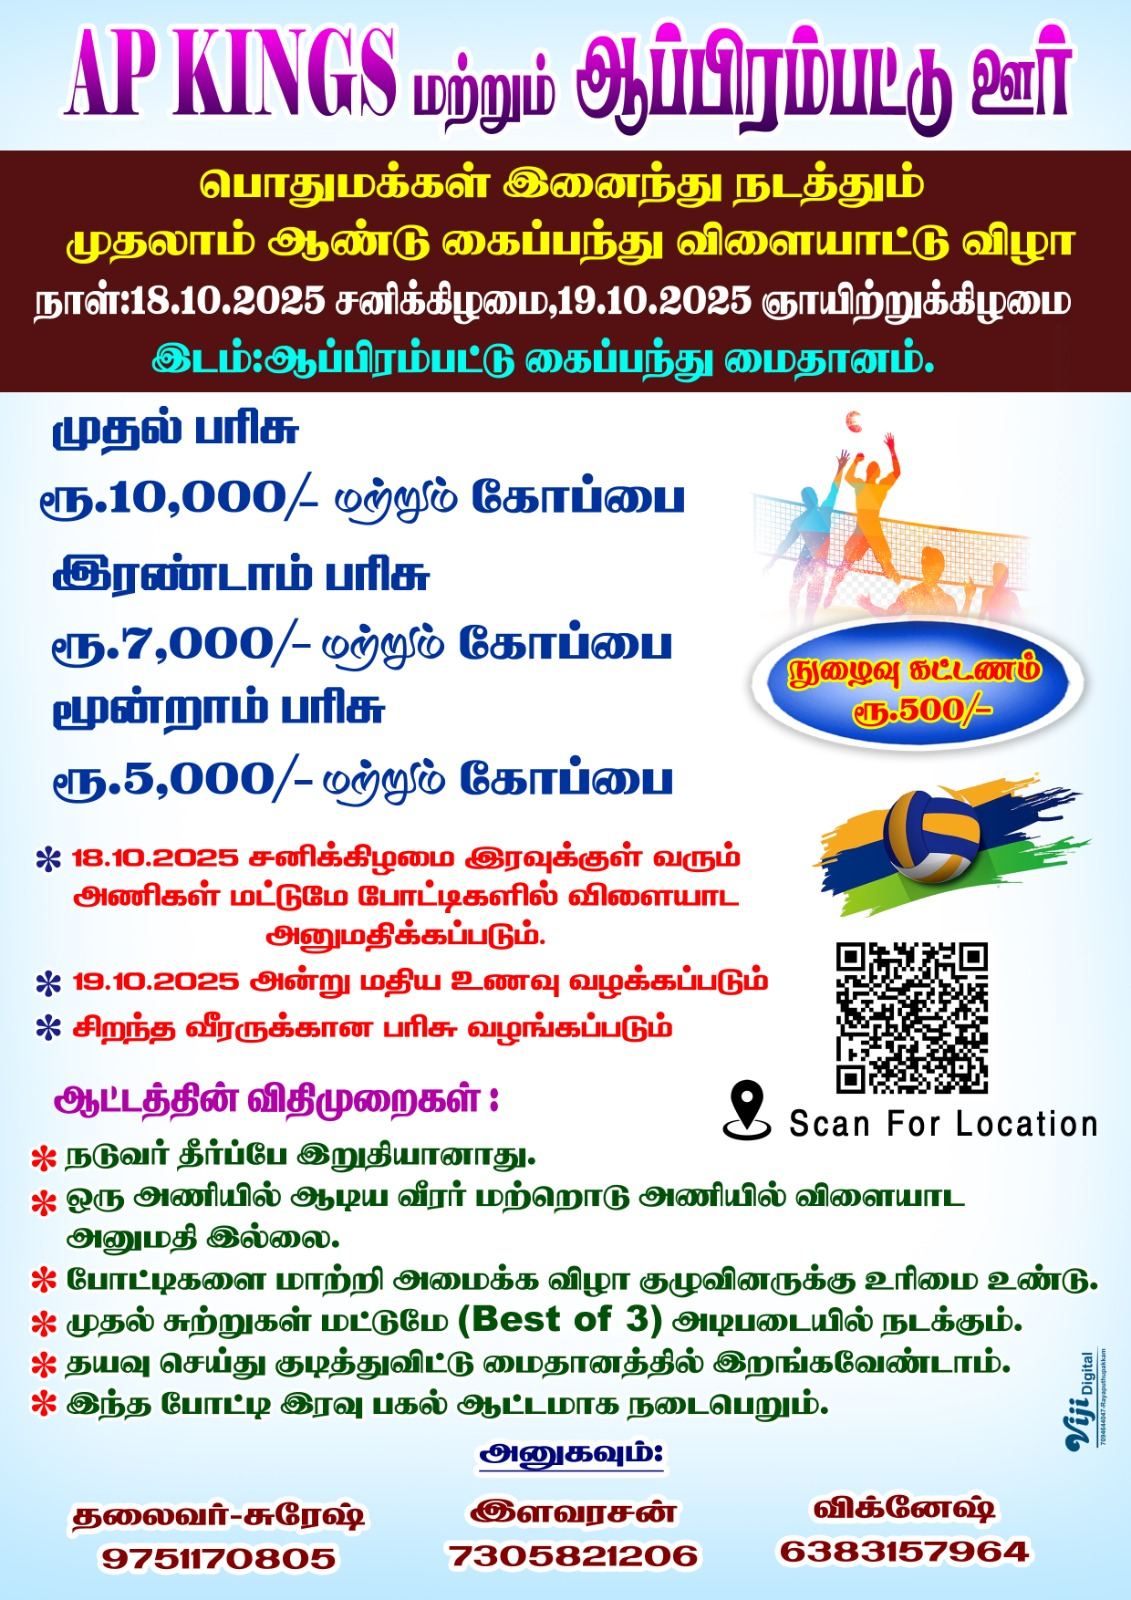
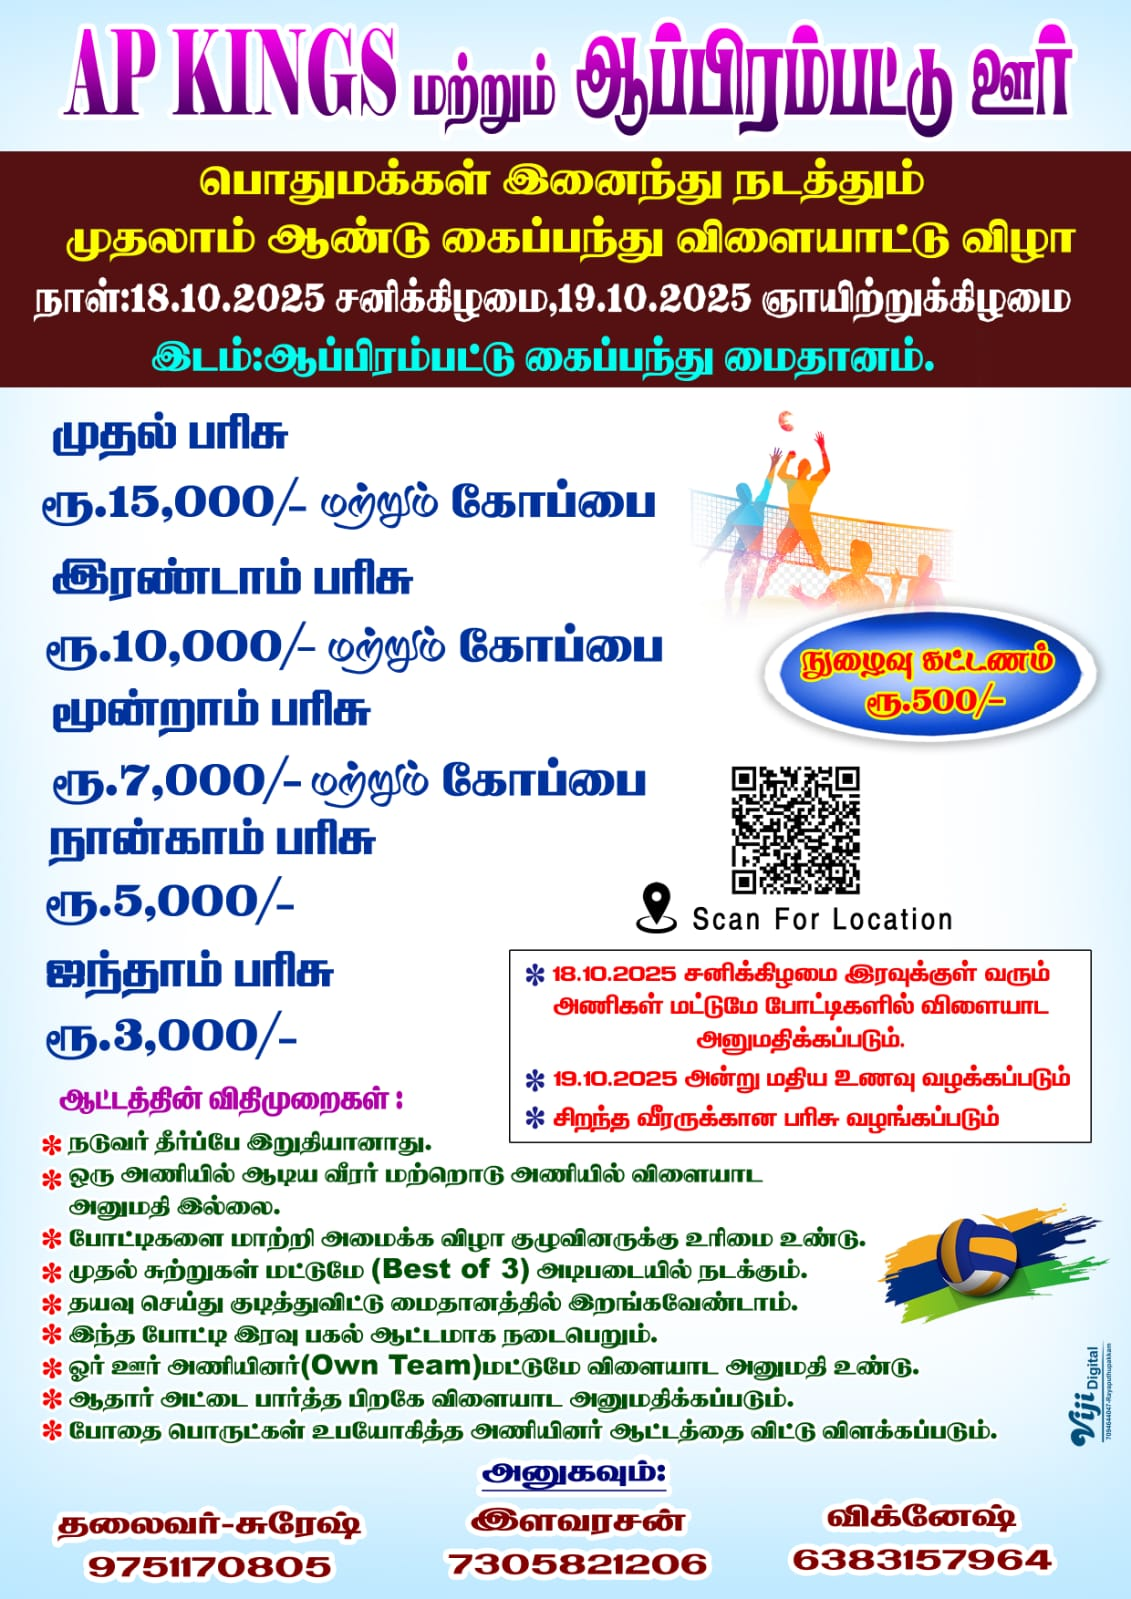
-Sponsors updated. -sliders Updated.

diff --git a/index.html b/index.html
@@ -9,7 +9,6 @@
     :root{ --navy:#0b2447; --accent:#d2a01d; --bg:#f5f8ff; --card:#fff; }
     *{box-sizing:border-box}
     body{margin:0;font-family:Inter,system-ui,-apple-system,"Segoe UI",Roboto,Arial;background:var(--bg);color:var(--navy)}
-
     header{background:linear-gradient(90deg,var(--navy),#083157);color:#fff;padding:14px 18px;display:flex;align-items:center;gap:16px;flex-wrap:wrap}
     .brand{display:flex;align-items:center;gap:12px}
     .logo{width:72px;height:72px;border-radius:8px;overflow:hidden;background:#fff;display:flex;align-items:center;justify-content:center}
@@ -17,35 +16,29 @@
     .title{line-height:1}
     .title h1{margin:0;font-size:18px;font-weight:800}
     .title p{margin:0;font-size:12px;opacity:.95}
-
     .meta{margin-left:auto;display:flex;align-items:center;gap:14px}
     .meta .event{display:flex;flex-direction:column;text-align:right}
     .meta .event small{font-size:12px;opacity:.9}
     .clock{background:rgba(255,255,255,.06);padding:8px 10px;border-radius:8px;font-weight:700;font-size:13px}
-
     .countdown-banner{width:100%;background:linear-gradient(90deg,var(--accent),#b88712);color:#08142b;padding:10px 18px;text-align:center;font-weight:700}
-
     nav{width:100%;background:transparent;display:flex;justify-content:center;padding:8px 10px;gap:12px;flex-wrap:wrap}
     nav a{color:#fff;text-decoration:none;font-weight:700;padding:8px 12px;border-radius:8px}
     nav a:hover{background:rgba(255,255,255,.06)}
 
-    .hero{max-width:1100px;margin:18px auto;padding:0 18px}
-    .slider{position:relative;overflow:hidden;border-radius:10px}
-    .slides{display:flex;width:400%;animation:slide 40s infinite}
-    .slides img{width:100%;height:320px;object-fit:cover}
-    @keyframes slide{0%{transform:translateX(0)}25%{transform:translateX(-100%)}50%{transform:translateX(-200%)}75%{transform:translateX(-300%)}100%{transform:translateX(0)}}
+    /* --- Swiper Slider Styling --- */
+    .swiper{width:100%;max-width:1100px;height:320px;margin:20px auto;border-radius:10px;overflow:hidden;box-shadow:0 8px 30px rgba(10,30,60,.08)}
+    .swiper-slide img{width:100%;height:100%;object-fit:cover}
+    .swiper-pagination-bullet{background:var(--accent)!important}
+    .swiper-button-next, .swiper-button-prev{color:var(--accent)!important}
 
     section{max-width:1100px;margin:18px auto;padding:0 18px}
     .card{background:var(--card);padding:18px;border-radius:10px;box-shadow:0 8px 30px rgba(10,30,60,.06);margin-bottom:18px}
-
     .sponsors{display:flex;flex-wrap:wrap;gap:12px;justify-content:center}
     .sponsor{background:#fff;padding:10px 14px;border-radius:8px;box-shadow:0 4px 14px rgba(0,0,0,.06);font-weight:700}
-
+    .sponsor-category{margin-top:10px;margin-bottom:6px;font-weight:800;text-align:center;color:var(--accent)}
     .location-card{display:flex;flex-direction:column;align-items:center;text-align:center}
     .location-card img{width:200px;height:200px;object-fit:contain;border-radius:10px;margin-top:12px}
-
     footer{text-align:center;padding:18px;color:#123;background:#0b2447;margin-top:12px;color:#fff}
-
     .translate-btn{background:var(--accent);color:#fff;border:none;padding:8px 12px;border-radius:6px;font-weight:600;cursor:pointer}
 
     @media(max-width:760px){
@@ -53,36 +46,30 @@
       .title h1{font-size:16px}
       .meta{width:100%;justify-content:space-between}
       .meta .event{text-align:left}
-      .slides img{height:220px}
+      .swiper{height:220px}
     }
   </style>
+  <link rel="stylesheet" href="https://cdn.jsdelivr.net/npm/swiper@11/swiper-bundle.min.css"/>
 </head>
 <body>
   <header>
     <div class="brand">
-      <div class="logo">
-        <img src="images/logo.png" alt="AP KINGS Logo" />
-      </div>
+      <div class="logo"><img src="images/logo.png" alt="AP KINGS Logo" /></div>
       <div class="title">
         <h1>AP KINGS Volleyball</h1>
         <p>Appirampattu — Community Tournament</p>
       </div>
     </div>
-
     <div class="meta">
-      <div class="event">
-        <small>Event Date</small>
-        <div><strong>18 Oct 2025 · 08:00 AM</strong></div>
-      </div>
-
+      <div class="event"><small>Event Date</small><div><strong>18–19 Oct 2025</strong></div></div>
       <div class="clock" id="liveTime">Loading time…</div>
     </div>
-
     <div style="width:100%"></div>
     <nav>
       <a href="#about">About</a>
       <a href="#rules">Rules</a>
       <a href="#prizes">Prizes</a>
+      <a href="#schedule">Schedule</a>
       <a href="#sponsors">Sponsors</a>
       <a href="#location">Location</a>
       <a href="#register">Register</a>
@@ -93,33 +80,32 @@
 
   <div class="countdown-banner" id="countdownBanner">Countdown: <span id="countdown">Calculating...</span></div>
 
-  <div class="hero">
-    <div class="slider card">
-      <div class="slides">
-        <img src="images/slide1.jpeg" alt="Slide 1">
-        <img src="images/slide2.jpeg" alt="Slide 2">
-        <img src="images/slide3.jpeg" alt="Slide 3">
-        <img src="images/slide4.jpeg" alt="Slide 4">
-      </div>
+  <!-- Swiper Slider -->
+  <div class="swiper">
+    <div class="swiper-wrapper">
+      <div class="swiper-slide"><img src="images/slide1.jpeg" alt="Slide 1"></div>
+      <div class="swiper-slide"><img src="images/slide2.jpeg" alt="Slide 2"></div>
+      <div class="swiper-slide"><img src="images/slide3.jpeg" alt="Slide 3"></div>
+      <div class="swiper-slide"><img src="images/slide4.jpeg" alt="Slide 4"></div>
     </div>
+    <div class="swiper-pagination"></div>
+    <div class="swiper-button-prev" aria-label="Previous slide"></div>
+    <div class="swiper-button-next" aria-label="Next slide"></div>
   </div>
 
   <section id="about">
     <div class="card">
       <h2>About the Tournament</h2>
-      <p id="aboutText">AP Kings Volleyball Tournament — Men's Category. Join for a weekend of competitive matches, community fun, and prizes.</p>
+      <p id="aboutText">AP Kings Volleyball Tournament — Men’s Category. Join for a weekend of competitive matches, community fun, and great prizes.</p>
     </div>
   </section>
 
-  <section id="rules">
+  <section id="schedule">
     <div class="card">
-      <h2>Rules & Guidelines</h2>
-      <ul id="rulesList">
-        <li>Maximum 8 players per team 6 on-court.</li>
-        <li>Best-of-3 sets; local standard volleyball rules apply.</li>
-        <li>Teams must check-in 30 minutes before scheduled match.</li>
-        <li>Referee decisions are final.</li>
-        <li>Unsportsmanlike behavior may lead to disqualification.</li>
+      <h2>Event Schedule</h2>
+      <ul id="scheduleList">
+        <li>📅 18.10.2025 (Saturday): Only league matches for teams arriving early.</li>
+        <li>📅 19.10.2025 (Sunday): Main tournament and prize distribution.</li>
       </ul>
     </div>
   </section>
@@ -128,10 +114,28 @@
     <div class="card">
       <h2>Prize Details</h2>
       <ul id="prizeList">
-        <li>🏆 1st Prize — ₹10,000 + Trophy</li>
-        <li>🥈 2nd Prize — ₹7,000 + Trophy</li>
-        <li>🥉 3rd Prize — ₹5,000 + Trophy</li>
-        <li>Entry Fee — ₹500 per Team</li>
+        <li>🏆 1st Prize — ₹15,000 + Trophy</li>
+        <li>🥈 2nd Prize — ₹10,000 + Trophy</li>
+        <li>🥉 3rd Prize — ₹7,000 + Trophy</li>
+        <li>🎖 4th Prize — ₹5,000</li>
+        <li>🏅 5th Prize — ₹3,000</li>
+        <li>💰 Entry Fee — ₹500 per Team</li>
+      </ul>
+    </div>
+  </section>
+
+  <section id="rules">
+    <div class="card">
+      <h2>Rules & Guidelines</h2>
+      <ul id="rulesList">
+        <li>The referee\'s decision is final.</li>
+        <li>A player who plays for one team cannot play for another team.</li>
+        <li>The organizing committee reserves the right to modify the match schedule..</li>
+        <li>Only the first rounds will be conducted on a “Best of 3” basis.</li>
+        <li>Players under the influence of alcohol are not allowed to enter the ground.</li>
+        <li>The tournament will be conducted during both day and night.</li>
+        <li>Players are allowed to play only after verifying aadhar ID cards.</li>
+        <li>Teams or players found using drugs or banned substances will be disqualified.</li>
       </ul>
     </div>
   </section>
@@ -139,13 +143,30 @@
   <section id="sponsors">
     <div class="card">
       <h2>Our Sponsors</h2>
+      <div class="sponsor-category">🏆 Prize money Sponsors</div>
       <div class="sponsors">
         <div class="sponsor">Vijaya Basker</div>
         <div class="sponsor">Kaliya</div>
         <div class="sponsor">Saravanan</div>
-        <div class="sponsor">Sathish</div>
-        <div class="sponsor">Ball Sponsors (Ranjith, Rajadurai, Magesh)</div>
-        <div class="sponsor">Food Sponsors (Ranjith, Kaliraj, Iyyanar)</div>
+      </div>
+
+      <div class="sponsor-category">🏐 Ball Sponsors</div>
+      <div class="sponsors">
+        <div class="sponsor">Ranjith</div>
+        <div class="sponsor">Rajadurai</div>
+        <div class="sponsor">Magesh</div>
+      </div>
+
+      <div class="sponsor-category">🍱 Food Sponsors</div>
+      <div class="sponsors">
+        <div class="sponsor">Ranjith</div>
+        <div class="sponsor">Kaliraj</div>
+        <div class="sponsor">Iyyanar</div>
+      </div>
+
+      <div class="sponsor-category">🙌 Support Sponsors</div>
+      <div class="sponsors">
+        <div class="sponsor">Appirampattu Peoples</div>
         <div class="sponsor">Appirampattu Players</div>
       </div>
     </div>
@@ -171,57 +192,85 @@
   <section id="contact">
     <div class="card">
       <h2>Contact</h2>
-      <p>Call: 9751170805 · Ilavarasan: 7305821206 · Vignesh: 6383157964</p>
+      <p>Call: 9751170805 (Suresh) · Ilavarasan: 7305821206 · Vignesh: 6383157964</p>
       <p>Email: <a href="mailto:udayamoorthy1857602@gmail.com">udayamoorthy1857602@gmail.com</a></p>
     </div>
   </section>
 
-  <footer>
-    <div>© 2025 AP KINGS Volleyball — Appirampattu</div>
-  </footer>
+  <footer><div>© 2025 AP KINGS Volleyball — Appirampattu</div></footer>
 
+  <script src="https://cdn.jsdelivr.net/npm/swiper@11/swiper-bundle.min.js"></script>
   <script>
+    // initialize swiper (autoplay + loop + navigation + pagination)
+    const swiper = new Swiper('.swiper', {
+      loop: true,
+      autoplay: { delay: 3500, disableOnInteraction: false },
+      pagination: { el: '.swiper-pagination', clickable: true },
+      navigation: { nextEl: '.swiper-button-next', prevEl: '.swiper-button-prev' },
+    });
+
+    // Live time
     function updateLiveTime(){
       const el = document.getElementById('liveTime');
       const now = new Date();
-      const opts = { weekday: 'short', day: 'numeric', month: 'short', hour: '2-digit', minute: '2-digit', second: '2-digit' };
-      el.textContent = now.toLocaleString('en-US', opts);
+      el.textContent = now.toLocaleString('en-IN',{hour:'2-digit',minute:'2-digit',second:'2-digit',day:'2-digit',month:'short',year:'numeric'});
     }
-    setInterval(updateLiveTime, 1000);
-    updateLiveTime();
+    setInterval(updateLiveTime,1000); updateLiveTime();
 
+    // Countdown
     const eventDate = new Date('2025-10-18T08:00:00');
     function updateCountdown(){
       const now = new Date();
       let diff = eventDate - now;
-      const cdEl = document.getElementById('countdown');
-      if(diff <= 0){ cdEl.textContent = 'Event is live or has started!'; return; }
-      const days = Math.floor(diff / (1000 * 60 * 60 * 24));
-      diff -= days * (1000 * 60 * 60 * 24);
-      const hours = Math.floor(diff / (1000 * 60 * 60));
-      diff -= hours * (1000 * 60 * 60);
-      const minutes = Math.floor(diff / (1000 * 60));
-      diff -= minutes * (1000 * 60);
-      const seconds = Math.floor(diff / 1000);
-      cdEl.textContent = `${days}d ${hours}h ${minutes}m ${seconds}s`;
+      const cd = document.getElementById('countdown');
+      if(!cd) return;
+      if(diff <= 0){ cd.textContent = 'Event is live!'; return; }
+      const d = Math.floor(diff / (1000*60*60*24));
+      const h = Math.floor((diff / (1000*60*60)) % 24);
+      const m = Math.floor((diff / (1000*60)) % 60);
+      const s = Math.floor((diff / 1000) % 60);
+      cd.textContent = `${d}d ${h}h ${m}m ${s}s`;
     }
-    setInterval(updateCountdown, 1000);
-    updateCountdown();
+    setInterval(updateCountdown,1000); updateCountdown();
 
+    // Language toggle
     let tamil = false;
     function toggleLanguage(){
       tamil = !tamil;
+
+      // About
       document.getElementById('aboutText').textContent = tamil
-        ? 'AP கிங்ஸ் வாலிபால் போட்டி — ஆண்கள் பிரிவு. போட்டி, மகிழ்ச்சி மற்றும் பரிசுகளுடன் ஒரு வார இறுதி.'
-        : 'AP Kings Volleyball Tournament — Men\'s Category. Join for a weekend of competitive matches, community fun, and prizes.';
+        ? 'AP கிங்ஸ் வாலிபால் போட்டி — ஆண்கள் பிரிவு. மகிழ்ச்சியும் பரிசுகளும் நிறைந்த ஒரு வார இறுதி.'
+        : 'AP Kings Volleyball Tournament — Men\'s Category. Join for a weekend of competitive matches, community fun, and great prizes.';
 
-      document.getElementById('rulesList').innerHTML = tamil
-        ? '<li>அணிக்கு அதிகபட்சம் 8 வீரர்கள் (6 பேர் மைதானத்தில்)</li><li>3 செட் அடிப்படையில் — உள்ளூர் வாலிபால் விதிகள் பொருந்தும்</li><li>அணி போட்டிக்கு முன் 30 நிமிடத்திற்கு முன் பதிவு செய்ய வேண்டும்</li><li>நியாயாதிபதியின் முடிவு இறுதி</li><li>ஒழுங்கின்மை நடந்தால் தகுதி நீக்கம்</li>'
-        : '<li>Maximum 8 players per team 6 on-court.</li><li>Best-of-3 sets; local standard volleyball rules apply.</li><li>Teams must check-in 30 minutes before scheduled match.</li><li>Referee decisions are final.</li><li>Unsportsmanlike behavior may lead to disqualification.</li>';
+      // Schedule
+      document.getElementById('scheduleList').innerHTML = tamil
+        ? '<li>📅 18.10.2025 (சனிக்கிழமை ): முன்னதாக வரும் அணிகளுக்கான லீக் போட்டிகள்.</li><li>📅 19.10.2025 (ஞாயிற்றுக்கிழமை): முக்கிய போட்டிகள் மற்றும் பரிசளிப்பு நிகழ்ச்சி.</li>'
+        : '<li>📅 18.10.2025 (Saturday ): Only league matches for teams arriving early.</li><li>📅 19.10.2025 (Sunday): Main tournament and prize distributions.</li>';
 
+      // Prizes
       document.getElementById('prizeList').innerHTML = tamil
-        ? '<li>🏆 முதல் பரிசு — ₹10,000 + கோப்பை</li><li>🥈 இரண்டாம் பரிசு — ₹7,000 + கோப்பை</li><li>🥉 மூன்றாம் பரிசு — ₹5,000 + கோப்பை</li><li>நுழைவு கட்டணம் — அணிக்கு ₹500</li>'
-        : '<li>🏆 1st Prize — ₹10,000 + Trophy</li><li>🥈 2nd Prize — ₹7,000 + Trophy</li><li>🥉 3rd Prize — ₹5,000 + Trophy</li><li>Entry Fee — ₹500 per Team</li>';
+        ? '<li>🏆 முதல் பரிசு — ₹15,000 + கோப்பை</li><li>🥈 இரண்டாம் பரிசு — ₹10,000 + கோப்பை</li><li>🥉 மூன்றாம் பரிசு — ₹7,000 + கோப்பை</li><li>🎖 நான்காம் பரிசு — ₹5,000</li><li>🏅 ஐந்தாம் பரிசு — ₹3,000</li><li>💰 நுழைவு கட்டணம் — அணிக்கு ₹500</li>'
+        : '<li>🏆 1st Prize — ₹15,000 + Trophy</li><li>🥈 2nd Prize — ₹10,000 + Trophy</li><li>🥉 3rd Prize — ₹7,000 + Trophy</li><li>🎖 4th Prize — ₹5,000</li><li>🏅 5th Prize — ₹3,000</li><li>💰 Entry Fee — ₹500 per Team</li>';
+
+        // Rules — properly formatted <li> tags
+    document.getElementById('rulesList').innerHTML = tamil
+      ? '<li>நடுவரின் தீர்ப்பு இறுதியானது.</li>' +
+        '<li>ஒரு அணியில் ஆடிய வீரர் மற்றொரு அணியில் விளையாட அனுமதி இல்லை.</li>' +
+        '<li>போட்டிகளை மாற்றி அமைக்கும் உரிமை விழா குழுவினருக்கு உண்டு.</li>' +
+        '<li>முதல் சுற்றுகள் மட்டும் “Best of 3” அடிப்படையில் நடைபெறும்.</li>' +
+        '<li>தயவுசெய்து மதுபானம் அருந்தி மைதானத்தில் இறங்க வேண்டாம்.</li>' +
+        '<li>இந்த போட்டி இரவு மற்றும் பகல் நேரங்களில் நடைபெறும்.</li>' +
+        '<li>அடையாள அட்டை (Aadhaar ID Card) பார்த்த பிறகே விளையாட அனுமதிக்கப்படும்.</li>' +
+        '<li>போதைய பொருள் பயன்படுத்திய அணியினர் ஆட்டத்திலிருந்து நீக்கப்படுவார்கள்.</li>'
+      : '<li>The referee\'s decision is final.</li>' +
+        '<li>A player who plays for one team cannot play for another team.</li>' +
+        '<li>The organizing committee reserves the right to modify the match schedule.</li>' +
+        '<li>Only the first rounds will be conducted on a “Best of 3” basis.</li>' +
+        '<li>Players under the influence of alcohol are not allowed to enter the ground.</li>' +
+        '<li>The tournament will be conducted during both day and night.</li>' +
+        '<li>Players are allowed to play only after verifying Aadhaar ID cards.</li>' +
+        '<li>Teams or players found using drugs or banned substances will be disqualified.</li>';
     }
   </script>
 </body>
